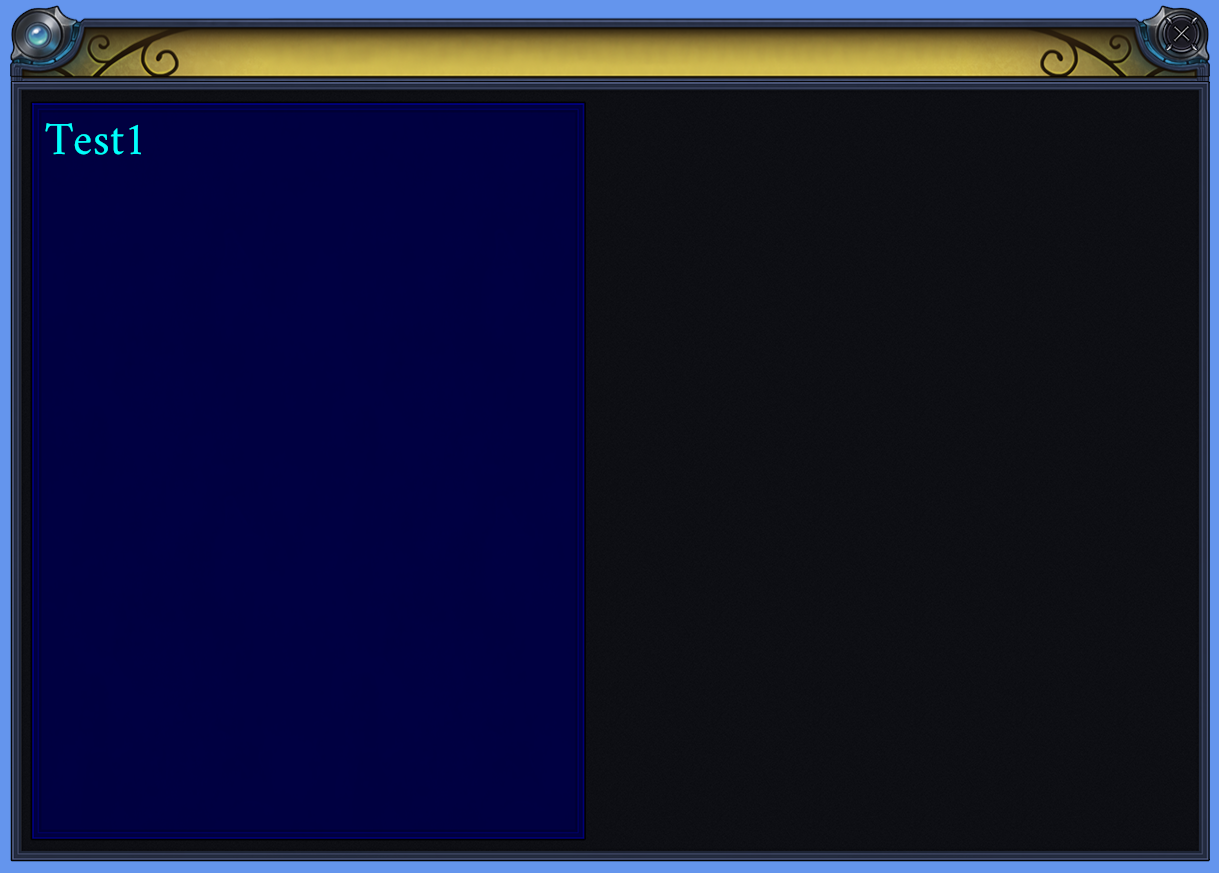
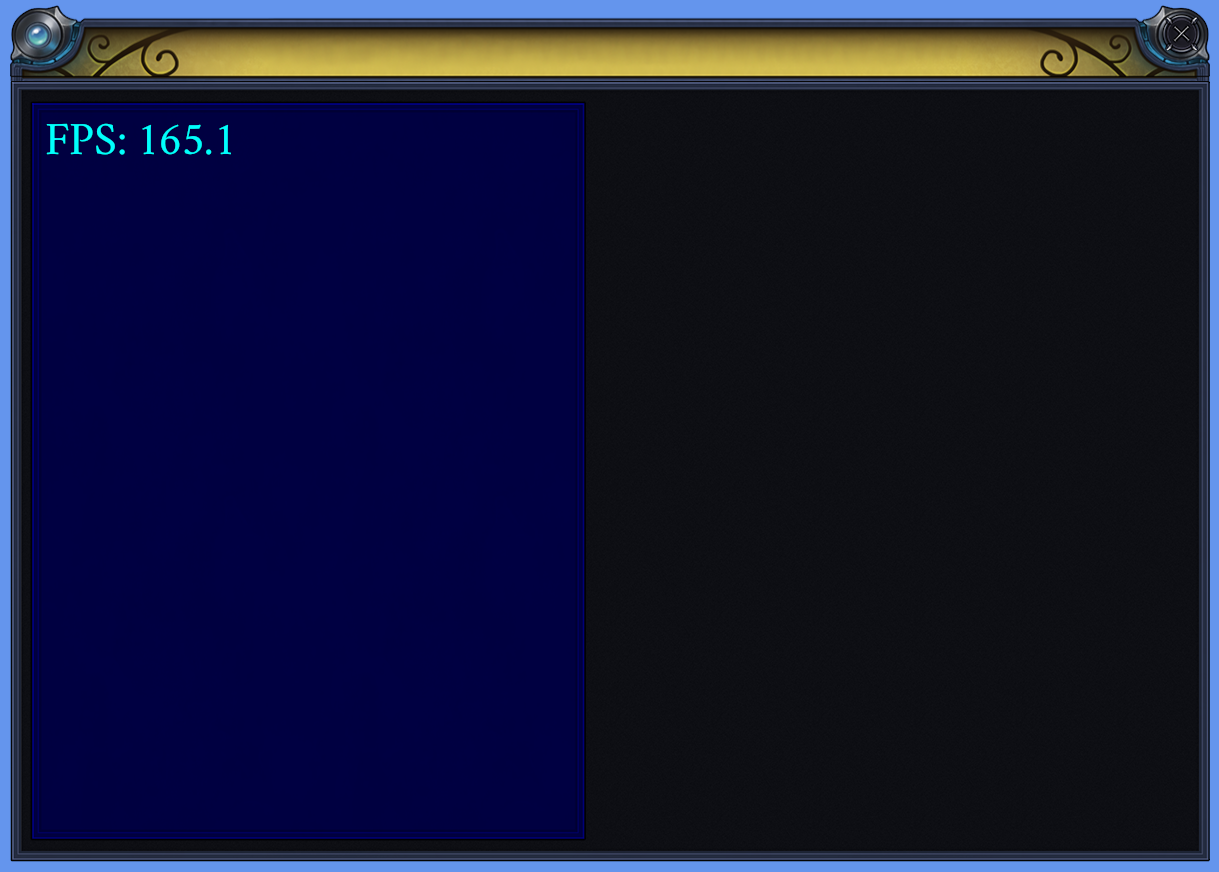
Text of Labels can now be changed

Changed region(s): [[0.0, 0.9599, 0.9975, 0.9908], [0.0312, 0.1239, 0.187, 0.1858]]

diff --git a/src/lib.rs b/src/lib.rs
@@ -5,6 +5,7 @@ use bevy::prelude::*;
 use plugin::{ButtonState, GergButton, GergControl, GergLabel, GergPictureBox};
 
 use crate::colors::parse_color;
+use crate::plugin::TextChanges;
 
 mod colors;
 pub mod plugin;
@@ -150,6 +151,7 @@ pub fn instantiate_controls(lines: Vec<String>) -> Controls {
                 control.fields.insert("font_name".to_string(), global_settings.font_name.clone());
                 control.fields.insert("font_size".to_string(), global_settings.font_size.clone());
                 control.fields.insert("text_string".to_string(), "".to_string());
+                control.fields.insert("static_text".to_string(), "true".to_string());
             },
             "--button--" => {
                 read_state = ReadState::Control;
@@ -248,6 +250,7 @@ fn spawn_picture_box(top_left_position: Vec2, size: Vec2, control: &Control, ass
     let scale = Vec3::new(1.0, 1.0, 1.0);
     let texture_name = control.fields.get_by_name("texture_name");
     let color_material_handle = get_color_material_handle(texture_name, asset_server, control, materials);
+
     let bundle = instantiate_sprite_bundle(size, center_position, scale, color_material_handle, true);
     let entity = commands
         .spawn_bundle(bundle)
@@ -265,12 +268,23 @@ fn spawn_label(top_left_position: Vec2, screen_size: Vec2, control: &Control, as
     let font_handle: Handle<Font> = asset_server.load(format!("fonts/{}", control.fields.get_by_name("font_name")).as_str());
     let font_size = parse_f32(control.fields.get_by_name("font_size"));
     let color = to_bevy_color(parse_color(control.fields.get_by_name("color")));
+    let static_text = parse_bool(control.fields.get_by_name("static_text"));
+
     let bundle = instantiate_textbundle(top_left_position, min_size, size, text, font_handle, font_size, color);
-    let entity = commands
-        .spawn_bundle(bundle)
-        .insert(GergLabel { name: control.fields.get_by_name("name").clone() })
-        .insert(GergControl { group_name: control_group_name.clone() })
-        .id();
+    let entity = if static_text {
+        commands
+            .spawn_bundle(bundle)
+            .insert(GergLabel { name: control.fields.get_by_name("name").clone() })
+            .insert(GergControl { group_name: control_group_name.clone() })
+            .id()
+    } else {
+        commands
+            .spawn_bundle(bundle)
+            .insert(GergLabel { name: control.fields.get_by_name("name").clone() })
+            .insert(GergControl { group_name: control_group_name.clone() })
+            .insert(TextChanges)
+            .id()
+    };
 
     entity
 }
@@ -298,6 +312,7 @@ fn spawn_button(top_left_position: Vec2, size: Vec2, control: &Control, asset_se
     let color_material_handle_active = get_color_material_handle(texture_name_active, asset_server, control, materials);
     let color_material_handle_disabled = get_color_material_handle(texture_name_disabled, asset_server, control, materials);
     let on_click_sound = control.fields.get_by_name("on_click_sound");
+
     let bundle = instantiate_sprite_bundle(size, center_position, scale, color_material_handle_normal.clone(), true);
     let entity = commands
         .spawn_bundle(bundle)
@@ -507,6 +522,16 @@ fn parse_vec4(s: &String) -> Vec4 {
         let result = Vec4::new(value1.parse::<f32>().unwrap(), value2.parse::<f32>().unwrap(), value3.parse::<f32>().unwrap(), value4.parse::<f32>().unwrap());
 
         result
+    };
+
+    result
+}
+
+fn parse_bool(s: &String) -> bool {
+    let result = if s.trim().to_lowercase() == "true" {
+        true
+    } else {
+        false
     };
 
     result

diff --git a/src/colors.rs b/src/colors.rs
@@ -251,6 +251,53 @@ static COLORS: phf::Map<&'static str, &str> = phf_map! {
     "crimson glory" => "#be0032",
     "cyan" => "#00ffff",
 
+    "daffodil" => "#ffff31",
+    "dandelion" => "#f0e130",
+    "dark blue" => "#00008b",
+    "dark brown" => "#654321",
+    "dark byzantium" => "#5d3954",
+    "dark candy apple red" => "#a40000",
+    "dark cerulean" => "#08457e",
+    "dark chestnut" => "#986960",
+    "dark coral" => "#cd5b45",
+    "dark cyan" => "#008b8b",
+    "dark electric blue" => "#536878",
+    "dark goldenrod" => "#b8860b",
+    "dark gray" => "#a9a9a9",
+    "dark green" => "#013220",
+    "dark jungle green" => "#1a2421",
+    "dark khaki" => "#bdb76b",
+    "dark lava" => "#483c32",
+    "dark lavender" => "#734f96",
+    "dark magenta" => "#8b008b",
+    "dark midnight blue" => "#003366",
+    "dark olive green" => "#556b2f",
+    "dark orange" => "#ff8c00",
+    "dark orchid" => "#9932cc",
+    "dark pastel blue" => "#779ecb",
+    "dark pastel green" => "#03c03c",
+    "dark pastel purple" => "#966fd6",
+    "dark pastel red" => "#c23b22",
+    "dark pink" => "#e75480",
+    "dark powder blue" => "#003399",
+    "dark raspberry" => "#872657",
+    "dark red" => "#8b0000",
+    "dark salmon" => "#e9967a",
+    "dark scarlet" => "#560319",
+    "dark sea green" => "#8fbc8f",
+    "dark sienna" => "#3c1414",
+    "dark slate blue" => "#483d8b",
+    "dark slate gray" => "#2f4f4f",
+    "dark spring green" => "#177245",
+    "dark tan" => "#918151",
+    "dark tangerine" => "#ffa812",
+    "dark taupe" => "#483c32",
+    "dark terra cotta" => "#cc4e5c",
+    "dark turquoise" => "#00ced1",
+    "dark violet" => "#9400d3",
+    "dartmouth green" => "#00693e",
+    "davy gray" => "#555555",
+
     "fuchsia" => "#ff00ff",
 
     "gray" => "#808080",

diff --git a/src/plugin.rs b/src/plugin.rs
@@ -211,6 +211,8 @@ pub struct ButtonClicked;
 
 pub struct DestroyControl;
 
+pub struct TextChanges;
+
 pub struct GergControl {
     pub group_name: String
 }

diff --git a/README.md b/README.md
@@ -5,7 +5,7 @@
 
 This is a little thing I put together for creating simple UI screens using the BevyEngine.
 The idea is to define the screens in a sort of poor-man's markup and this crate will then
-provide some functions to create the UI 'objects'.
+provide some functions to create the UI 'widgets'.
 
 For example, the following in a file will create a screen looking like:
 
@@ -13,7 +13,7 @@ For example, the following in a file will create a screen looking like:
 
 with the code:
 ```sh
-// start_system
+// startup_system
 fn setup(
     mut commands: Commands,
     asset_server: Res<AssetServer>,
@@ -46,21 +46,40 @@ fn close_button_click_system(
         }
     }
 }
+
+// text_change_system
+fn change_text_system(
+    diagnostics: Res<Diagnostics>,
+    mut query: Query<(&mut Text, &GergLabel), With<TextChanges>>
+) {
+    for (mut text, label) in query.iter_mut() {
+        if label.name == "label1" {
+            let mut fps = 0.0;
+            if let Some(fps_diagnostic) = diagnostics.get(FrameTimeDiagnosticsPlugin::FPS) {
+                if let Some(fps_avg) = fps_diagnostic.average() {
+                    fps = fps_avg;
+                }
+            }
+
+            text.sections[0].value = format!("FPS: {:.1}", fps);
+        }
+    }
+}
 ```
 
 ```sh
 --global_settings--
-font_name: CrimsonText-Regular.ttf
-font_size: 30
-color: 255;255;255 // WHITE
+font_name: CrimsonText-Regular.ttf // mandatory
+font_size: 30                      // defaults to 20 if missing
+color: 255;255;255                 // defaults to WHITE if missing
 --end--
 
 --picture_box--
 name: frame1
 texture_name: big_frame.png // mandatory
 size: 1200;782              // mandatory
-//center_position: 0;0      // middle of screen is 0;0, defaults to 0;0 if missing, but dock_with (and offset) will override
-draw_order: 0               // defaults to 0 if missing
+//center_position: 0;0      // middle of screen is 0;0, defaults to 0;0 if missing, but dock_with will override
+draw_order: 0               // optional, defaults to 0 if missing
 dock_with: screen.top_left<->this.top_left
 offset: 10;-80
 --end--
@@ -76,15 +95,15 @@ offset: 0;-1
 
 --button--
 name: close_button
-texture_name_normal: close_button_n.png
-texture_name_hover: close_button_h.png
-texture_name_active: close_button_a.png
-texture_name_disabled: close_button_n.png
-on_click_sound: audio/mouse_click_1.mp3
-size: 43;44
-//bounding_box: 0;0;43;44
-bounding_circle: 0;0;20
-draw_order: 0.2
+texture_name_normal: close_button_n.png   // mandatory
+texture_name_hover: close_button_h.png    // optional, will use texture_name_normal if missing
+texture_name_active: close_button_a.png   // optional, will use texture_name_normal if missing
+texture_name_disabled: close_button_n.png // optional, will use texture_name_normal if missing
+on_click_sound: audio/mouse_click_1.mp3   // optional, will play no sound on click if missing
+size: 43;44                               // mandatory
+bounding_box: 0;0;43;44                   // optional, will use size of texture if missing
+bounding_circle: 0;0;20                   // optional, will use bounding_box if missing
+draw_order: 0.2                           // defaults to 0 if missing
 dock_with: heading.top_right<->this.top_right
 offset: -7;-7
 --end--
@@ -100,11 +119,13 @@ color: BLUE
 --end--
 
 --label--
-name: label3
-size: 200;50
-text_string: Test1
-font_size: 50
-color: CYAN
+name: label1
+size: 200;50                       // mandatory
+text_string: FPS:                  // mandatory
+font_name: CrimsonText-Regular.ttf // optional, will use global_settings if missing
+font_size: 50                      // optional, will use global_settings if missing
+color: CYAN                        // optional, will use global_settings if missing
+static_text: false                 // optional, defaults to true if missing
 dock_with: panel_inner.top_left<->this.top_left
 offset: 15;-15
 --end--
